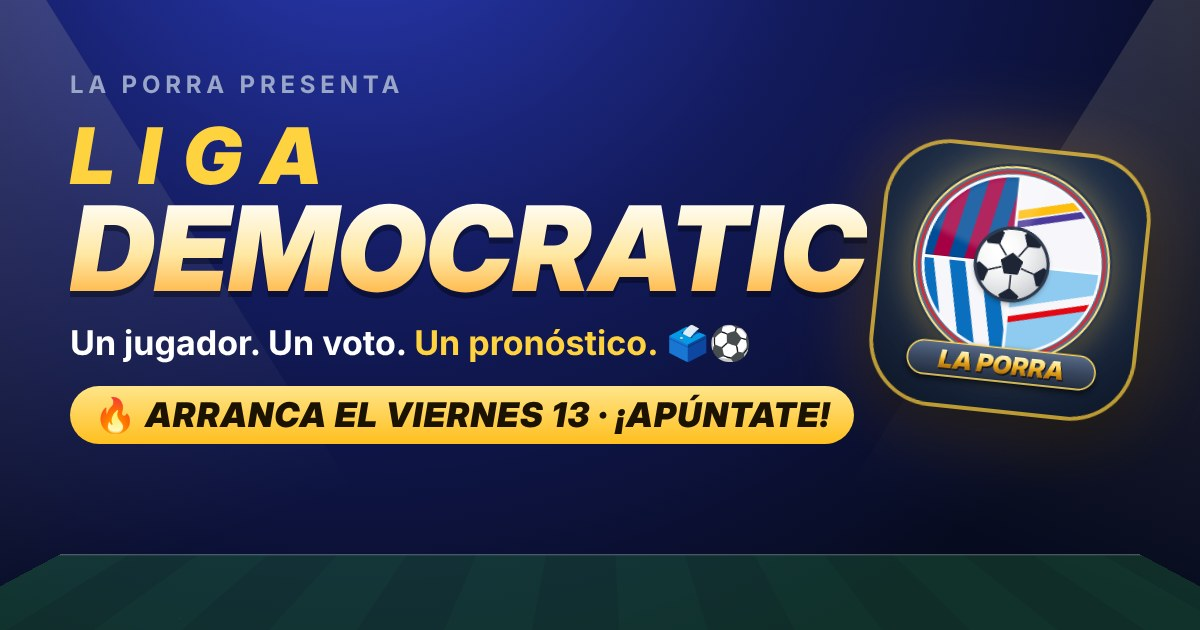
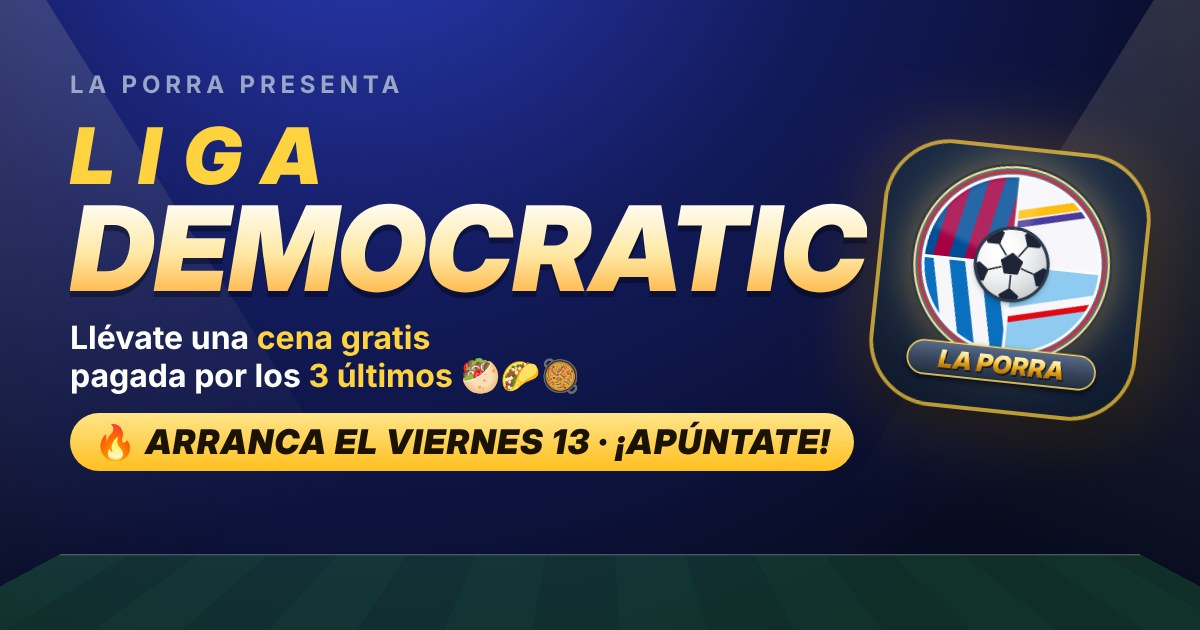
Liga Democratic: nuevo mensaje de invitación (cena gratis pagada por los 3 últimos)
Claude-Session: https://claude.ai/code/session_01WnahYQ44zuL5MJNsFyzTZ6

Changed region(s): [[0.0308, 0.5127, 0.7092, 0.754]]

diff --git a/democratic.html b/democratic.html
@@ -4,13 +4,13 @@
 <meta charset="utf-8">
 <meta name="viewport" content="width=device-width, initial-scale=1, viewport-fit=cover">
 <title>Liga Democratic · ¡Apúntate!</title>
-<meta name="description" content="Un jugador, un voto, un pronóstico. Arrancamos el viernes 13 con la Nations League. Retos sin límite. ¡Apúntate gratis!">
+<meta name="description" content="Acierta tus pronósticos y llévate una cena gratis pagada por los 3 últimos. Arrancamos el viernes 13 con la Nations League. ¡Apúntate!">
 <meta name="theme-color" content="#070b1f">
 <!-- Vista previa al compartir por WhatsApp -->
 <meta property="og:type" content="website">
 <meta property="og:site_name" content="La Porra">
 <meta property="og:title" content="🏟 LIGA DEMOCRATIC · ¡Te estamos esperando!">
-<meta property="og:description" content="Un jugador, un voto, un pronóstico. Arrancamos el viernes 13 con la Nations League. Retos sin límite. ¡Apúntate!">
+<meta property="og:description" content="Acierta tus pronósticos y llévate una cena gratis pagada por los 3 últimos 🥙🌮🥘 Arrancamos el viernes 13 con la Nations League. ¡Apúntate!">
 <meta property="og:image" content="https://porra-liga.vercel.app/img/og-democratic.jpg">
 <meta property="og:image:width" content="1200">
 <meta property="og:image:height" content="630">
@@ -34,9 +34,9 @@ body{min-height:100vh;overflow-x:hidden}
 .pitch{position:fixed;left:50%;bottom:-30vh;width:160vw;height:70vh;transform:translateX(-50%) perspective(600px) rotateX(58deg);z-index:0;pointer-events:none;opacity:.2;
   background:repeating-linear-gradient(90deg,#1d6b3a 0 9vw,#1a5f34 9vw 18vw);border-top:3px solid rgba(255,255,255,.6);
   mask-image:linear-gradient(180deg,#000,transparent 85%);-webkit-mask-image:linear-gradient(180deg,#000,transparent 85%)}
-.float{position:fixed;z-index:0;pointer-events:none;font-size:28px;opacity:.55;animation:up linear infinite}
+.float{position:fixed;z-index:1;pointer-events:none;font-size:28px;opacity:.3;animation:up linear infinite}
 @keyframes up{from{transform:translateY(110vh) rotate(0)}to{transform:translateY(-15vh) rotate(360deg)}}
-main{position:relative;z-index:1;max-width:520px;margin:0 auto;padding:calc(env(safe-area-inset-top,0px) + 22px) 18px calc(env(safe-area-inset-bottom,0px) + 30px);text-align:center}
+main{position:relative;z-index:5;max-width:520px;margin:0 auto;padding:calc(env(safe-area-inset-top,0px) + 22px) 18px calc(env(safe-area-inset-bottom,0px) + 30px);text-align:center}
 .pre{display:inline-flex;align-items:center;gap:8px;font:700 13px/1 Barlow,sans-serif;letter-spacing:.18em;text-transform:uppercase;color:var(--dim)}
 .pre img{width:26px;height:26px;border-radius:24%}
 h1{margin:14px 0 0;font-family:"Barlow Condensed",sans-serif;font-weight:900;text-transform:uppercase;line-height:.82}
@@ -83,8 +83,8 @@ h1 .b::after{content:"";position:absolute;inset:0;background:linear-gradient(100
 <main>
   <div class="pre"><img src="icons/icon-192.png" alt="">La Porra presenta</div>
   <h1><span class="a">Liga</span><span class="b">Democratic</span></h1>
-  <p class="lema">Un jugador. Un voto. <b>Un pronóstico.</b> 🗳⚽</p>
-  <p class="sub">Aquí no hay enchufes ni tortillas que valgan: solo puntos y gloria.</p>
+  <p class="lema">Acierta tus pronósticos y llévate una <b>cena gratis</b> pagada por los <b>3 últimos</b> 🥙🌮🥘</p>
+  <p class="sub">Arrancamos el viernes 13 con la Nations League y luego, la Liga: siempre con el Depor, Celta, Madrid y Barça 🔥</p>
 
   <div class="count">
     <div class="t">🌍 Arrancamos con la Nations League</div>
@@ -95,7 +95,7 @@ h1 .b::after{content:"";position:absolute;inset:0;background:linear-gradient(100
   <div class="cards">
     <div class="card hot"><div class="i">⚔</div><b>Retos sin límite</b><span>Reta a quien quieras, las veces que quieras… ¡ya desde la Nations League! El que gana se lleva los puntos de los dos.</span></div>
     <div class="card"><div class="i">🎯</div><b>Exacto 3 · 1X2 1</b><span>Acierta el resultado y suma a lo grande.</span></div>
-    <div class="card"><div class="i">⚡</div><b>Comodín x2</b><span>3 por temporada para doblar tus puntos.</span></div>
+    <div class="card"><div class="i">⚡</div><b>5 comodines x2</b><span>Para doblar tus puntos cuando más lo necesites.</span></div>
     <div class="card"><div class="i">⭐</div><b>Clásico y derbi x2</b><span>Madrid, Barça, Depor y Celta. Los partidos gordos valen doble.</span></div>
     <div class="card"><div class="i">🔴</div><b>En directo</b><span>Marcador en vivo y aviso al móvil si te falta un pronóstico.</span></div>
   </div>
@@ -116,15 +116,13 @@ document.getElementById("go").href = base + "?liga=2&codigo=" + encodeURICompone
 const share = base + "democratic.html?c=" + encodeURIComponent(CODE);
 const text = `🏟 *LIGA DEMOCRATIC* — ¡te estamos esperando!
 
-Un jugador. Un voto. Un pronóstico. 🗳⚽
-🌍 Arrancamos el *viernes 13* con la Nations League (y el domingo, *España–Inglaterra* 🔥)
+Acierta tus pronósticos y podrás llevarte una cena gratis pagada por los 3 últimos 🥙🌮🥘
+🌍 Arrancamos el *viernes 13* con la Nations League y luego con la Liga: siempre con el Depor, Celta, Madrid y Barça 🔥
 ⚔ Retos sin límite: reta a quien quieras, las veces que quieras
 🎯 Exacto 3 pts · 1X2 1 pt · ⚡ comodines x2
 
 👉 Apúntate aquí: ${share}
-🔑 Código: ${CODE}
-
-¿Te atreves? 😎`;
+🔑 Código: ${CODE}`;
 document.getElementById("wa").onclick = () => {
   if (navigator.share) navigator.share({ text }).catch(() => {});
   else window.open("https://wa.me/?text=" + encodeURIComponent(text), "_blank");
@@ -141,9 +139,12 @@ function tick() {
   document.getElementById("cs").textContent = pad(s % 60);
 }
 tick(); setInterval(tick, 1000);
+// el título siempre cabe en la pantalla
+function fit() { const b = document.querySelector("h1 .b"), w = document.querySelector("main").clientWidth - 8; b.style.fontSize = ""; let fs = parseFloat(getComputedStyle(b).fontSize); while (b.scrollWidth > w && fs > 30) { fs -= 2; b.style.fontSize = fs + "px"; } }
+fit(); addEventListener("resize", fit); if (document.fonts) document.fonts.ready.then(fit);
 // balones y papeletas subiendo
 const fl = document.getElementById("floaters");
-for (let i = 0; i < 14; i++) { const e = document.createElement("div"); e.className = "float"; e.textContent = i % 3 ? "⚽" : "🗳";
+for (let i = 0; i < 14; i++) { const e = document.createElement("div"); e.className = "float"; e.textContent = i % 3 ? "⚽" : ["🥙", "🌮", "🥘"][i % 3 === 0 ? (i / 3) % 3 : 0];
   e.style.left = (Math.random() * 100) + "vw"; e.style.fontSize = (18 + Math.random() * 22) + "px"; e.style.animationDuration = (9 + Math.random() * 10) + "s"; e.style.animationDelay = (-Math.random() * 18) + "s"; fl.appendChild(e); }
 </script>
 </body>

diff --git a/index.html b/index.html
@@ -1884,15 +1884,13 @@ function inviteText(code) {
     const ad = location.origin + location.pathname.replace(/index\.html$/, "") + "democratic.html?c=" + code;
     return `🏟 *LIGA DEMOCRATIC* — ¡te estamos esperando!
 
-Un jugador. Un voto. Un pronóstico. 🗳⚽
-🌍 Arrancamos el *viernes 13* con la Nations League (y el domingo, *España–Inglaterra* 🔥)
+Acierta tus pronósticos y podrás llevarte una cena gratis pagada por los 3 últimos 🥙🌮🥘
+🌍 Arrancamos el *viernes 13* con la Nations League y luego con la Liga: siempre con el Depor, Celta, Madrid y Barça 🔥
 ⚔ Retos sin límite: reta a quien quieras, las veces que quieras
 🎯 Exacto 3 pts · 1X2 1 pt · ⚡ comodines x2
 
 👉 Apúntate aquí: ${ad}
-🔑 Código: ${code}
-
-¿Te atreves? 😎`;
+🔑 Código: ${code}`;
   }
   const url = location.origin + location.pathname.replace(/index\.html$/, "") + "?codigo=" + code + (LIGA_ID === "1" ? "" : "&liga=" + LIGA_ID);
   return `⚽🔥 ¡Estás convocado a LA PORRA!

diff --git a/sw.js b/sw.js
@@ -1,5 +1,5 @@
 // La Porra · service worker: app instalable, funciona offline la portada y recibe avisos
-const CACHE = "porra-v36";
+const CACHE = "porra-v37";
 const SHELL = ["./", "index.html", "manifest.json", "icons/icon-192.png", "icons/icon-512.png", "icons/apple-touch-icon.png", "icons/logo.png", "img/cracks.webp", "img/cracks.jpg", "img/duel-l.jpg", "img/duel-r.jpg", "img/tortilla.jpg"];
 
 self.addEventListener("install", (e) => {
